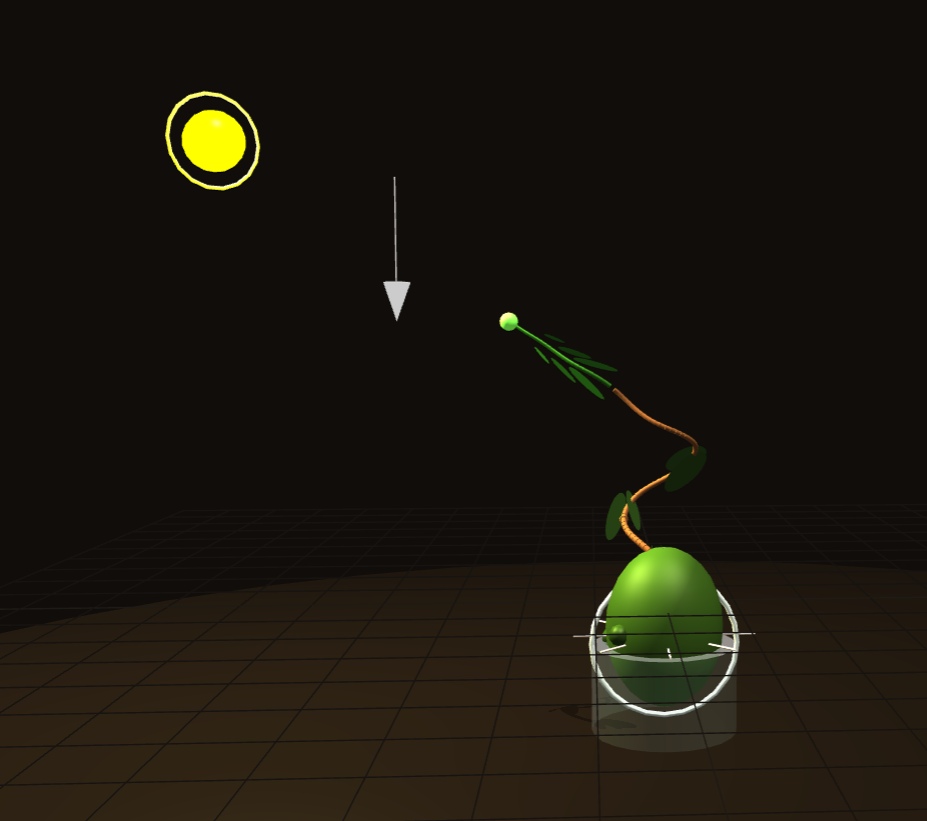
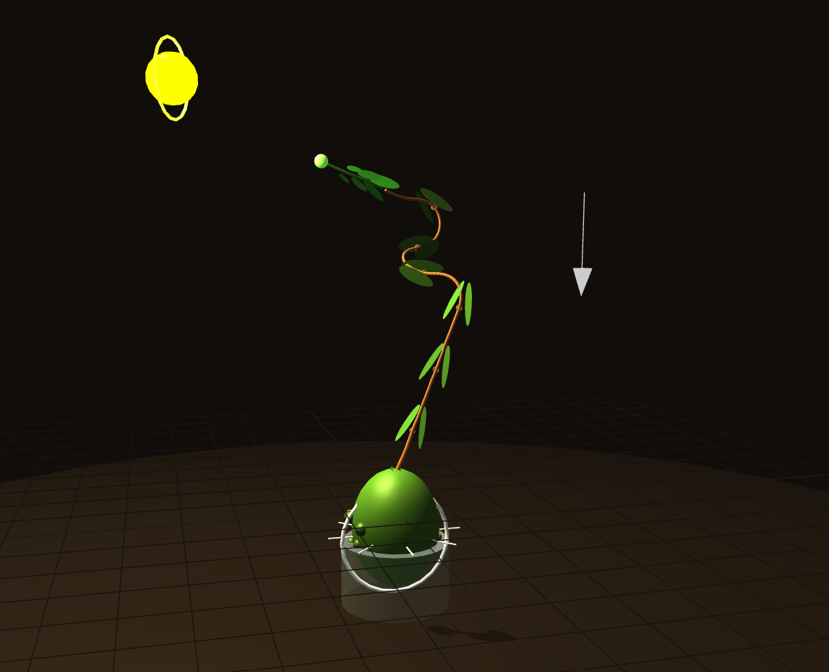
Add files via upload

diff --git a/index.html b/index.html
@@ -159,7 +159,7 @@ input[type=range]::-moz-range-thumb{width:18px;height:18px;border-radius:50%;bac
 
   <!-- ── Header ── -->
   <div id="header">
-    <div id="title"><span class="avo">🥑</span> Torture the Avocado</div>
+    <div id="title"><span class="avo">🥑</span> Torture the Avocado <span style="font-size:10px;font-weight:400;color:var(--text3);letter-spacing:.01em">· A plant tropisms simulator</span></div>
     <div id="statusbar">loading…</div>
     <button id="btn-examples" onclick="toggleExamples()" title="Examples">✦</button>
     <button id="btn-help" onclick="toggleHelp()">?</button>
@@ -171,7 +171,7 @@ input[type=range]::-moz-range-thumb{width:18px;height:18px;border-radius:50%;bac
       <canvas id="c"></canvas>
 
       <div id="canvas-controls">
-        <button class="cbtn" id="btn-pause" onclick="togglePause()">⏸ Pause</button>
+        <button class="cbtn pause-on" id="btn-pause" onclick="togglePause()">▶ Resume</button>
         <button class="cbtn" onclick="resetPlant()">↺ Reset</button>
       </div>
 
@@ -232,26 +232,26 @@ input[type=range]::-moz-range-thumb{width:18px;height:18px;border-radius:50%;bac
 
         <div class="help-card">
           <h3>🌱 How growth works</h3>
-          <p>The stem is a 3D curve. Growth is <b>diffuse axial elongation</b> within the <b style="color:#4caf3f">green growth zone</b> — cells all along the zone elongate simultaneously, not just at the tip. When one side of the cylindrical stem elongates faster than the other (<b>differential growth</b>), the local curvature changes and the stem bends. The <b style="color:#8B5e3c">brown mature zone</b> has finished elongating; its shape is permanently fixed.</p>
+          <p>The stem is a 3D curve. Growth occurs along the <b style="color:#4caf3f">green growth zone</b> — when one side elongates faster than the other, the stem bends. The <b style="color:#8B5e3c">brown mature zone</b> is permanently fixed.</p>
           <div class="tip">Slow the growth rate right down to watch curvature build step by step.</div>
         </div>
 
         <div class="help-card">
           <h3>🪴 Torturing the plant</h3>
           <p>The classic way to torture a houseplant is to <b>rotate the pot</b> — the stem was growing toward the window, and now gravity and light pull it a different way. Use the Pot tab to tilt and spin. You can also <b>move the light source</b> to the other side and watch the plant chase it. What shape can you grow?</p>
-          <div class="tip">Rotate the pot 90°, then add a light on the opposite side and watch the plant tear itself in two directions.</div>
+          <div class="tip">Rotate the pot 90°, then add a light on the opposite side — gravity and light will pull the stem in competing directions.</div>
         </div>
 
         <div class="help-card">
           <h3>⬆ Gravitropism</h3>
-          <p>Plants sense gravity and grow against it (shoots) or toward it (roots). Negative sensitivity = shoot-like, grows upward. Positive = root-like, grows downward. <b>Gravity always points downward</b>, even when you rotate the pot.</p>
+          <p>Plants sense gravity and grow against it (shoots) or toward it (roots). Negative sensitivity = shoot-like, grows upward. Positive = root-like, grows downward.</p>
           <div class="tip">Rotate the pot 90° and watch the plant slowly correct itself.</div>
         </div>
 
         <div class="help-card">
           <h3>☀ Phototropism</h3>
           <p>Add a point light source and the plant bends toward it. Sensitivity follows Stevens' power law — response grows non-linearly with signal strength. Drag the ☀ sphere to reposition it; use the height slider to move it up and down.</p>
-          <div class="tip">Try placing the light below the pot to make it grow downward.</div>
+          <div class="tip">Try slowly rotating the light around the plant and watch the stem follow.</div>
         </div>
 
         <div class="help-card">
@@ -407,6 +407,11 @@ input[type=range]::-moz-range-thumb{width:18px;height:18px;border-radius:50%;bac
 // ── Intro + examples ──────────────────────────────────────────────────
 function closeIntro(){
   document.getElementById('intro-modal').style.display='none';
+  // Start growing now that the user has chosen to begin
+  paused=false;
+  let b=document.getElementById('btn-pause');
+  b.classList.remove('pause-on');
+  b.textContent='⏸ Pause';
 }
 
 function toggleExamples(){
@@ -521,7 +526,7 @@ setTimeout(fadeOnboard,5000);
 // ── Simulation parameters ─────────────────────────────────────────────
 let G=-1.0, L=3.0, GAMMA=3.0, NUM_gz=15, GROW_RATE=1.0;
 let apicalSensing=false, circOn=false, CIRC_AMP=0.5, CIRC_PERIOD=4.0;
-let paused=false;
+let paused=true;
 const R_org=1.25, ds=0.25*R_org, b_photo=0.6, DT=0.14;
 let simTime=0, baseRotX=0, baseRotZ=0;
 
@@ -773,8 +778,9 @@ function makeLeafMesh(lp,n1,n2,T,side,size,dark){
 // ── Stem rendering ────────────────────────────────────────────────────
 let gzMeshes=[];
 let mzGroup=new THREE.Group(); plantGroup.add(mzGroup);
-let mzLeafCount=0;
-let mzStemUpTo=0;   // index up to which MZ stem segments have been added to mzGroup
+let totalGrown=0;        // total segments ever added (never decremented)
+let mzStemAddedUpTo=0;   // totalGrown value up to which MZ stem cylinders are drawn
+let mzLeafAddedUpTo=-1;  // totalGrown value up to which MZ leaves are drawn (-1 = none)
 const LEAF_STEP=Math.max(3,Math.round(5/ds));
 
 function rebuildGZ(){
@@ -819,25 +825,26 @@ function rebuildGZ(){
 }
 
 function addMZStemSegments(){
-  // Add MZ stem cylinder segments to mzGroup as they become permanently fixed.
-  // We add every segment from mzStemUpTo up to gz_start-1, snapshotting position now.
   if(!plant||plant.NUM<2)return;
   let N=plant.NUM, gz_start=Math.max(1,N-NUM_gz);
-  for(let i=mzStemUpTo;i<gz_start-1;i++){
-    let p0=plant.r[i],p1=plant.r[i+1];
+  let pruned=totalGrown-N; // segments shifted off the front
+  // Add stem cylinders for segments that just entered MZ
+  for(let abs=mzStemAddedUpTo; abs<pruned+gz_start-1; abs++){
+    let ai=abs-pruned; // index into current arrays
+    if(ai<0||ai+1>=N) continue;
+    let p0=plant.r[ai],p1=plant.r[ai+1];
     let dx=p1[0]-p0[0],dy=p1[1]-p0[1],dz=p1[2]-p0[2];
     let len=Math.sqrt(dx*dx+dy*dy+dz*dz);
-    if(len<1e-7){mzStemUpTo=i+1;continue;}
-    let r0=R_org*0.22*(0.35+0.65*(1-i/N));
-    let col=new THREE.Color().setHSL(0.07,0.52,0.27);
+    if(len<1e-7){mzStemAddedUpTo=abs+1;continue;}
+    let r0=R_org*0.22*(0.35+0.65*(1-ai/N));
     let mesh=new THREE.Mesh(new THREE.CylinderGeometry(r0*0.9,r0,len,7),
-      new THREE.MeshPhongMaterial({color:col,shininess:4}));
+      new THREE.MeshPhongMaterial({color:new THREE.Color().setHSL(0.07,0.52,0.27),shininess:4}));
     mesh.castShadow=true;
     let mid=[(p0[0]+p1[0])/2,(p0[1]+p1[1])/2,(p0[2]+p1[2])/2];
     mesh.position.set(mid[0],mid[1],mid[2]);
     mesh.quaternion.setFromUnitVectors(new THREE.Vector3(0,1,0),new THREE.Vector3(dx/len,dy/len,dz/len));
     mzGroup.add(mesh);
-    mzStemUpTo=i+1;
+    mzStemAddedUpTo=abs+1;
   }
 }
 
@@ -845,20 +852,26 @@ function updateMZLeaves(){
   if(!plant||plant.NUM<2)return;
   addMZStemSegments();
   let N=plant.NUM, gz_start=Math.max(1,N-NUM_gz);
-  for(let i=4+mzLeafCount*LEAF_STEP;i<gz_start-LEAF_STEP;i+=LEAF_STEP){
-    let lp=plant.r[i],Di=plant.D[i];
+  let pruned=totalGrown-N;
+  // First leaf at absolute index pruned+4, then every LEAF_STEP
+  let firstAbs=pruned+4;
+  // Align to LEAF_STEP grid
+  if(mzLeafAddedUpTo<0) mzLeafAddedUpTo=firstAbs-LEAF_STEP;
+  for(let abs=mzLeafAddedUpTo+LEAF_STEP; abs<pruned+gz_start-LEAF_STEP; abs+=LEAF_STEP){
+    let ai=abs-pruned;
+    if(ai<0||ai>=N) continue;
+    let lp=plant.r[ai],Di=plant.D[ai];
     let n1=[Di[0],Di[3],Di[6]],n2=[Di[1],Di[4],Di[7]],T=[Di[2],Di[5],Di[8]];
     let ng=new THREE.Mesh(new THREE.TorusGeometry(R_org*0.17,R_org*0.055,4,8),
       new THREE.MeshPhongMaterial({color:0x6a4820}));
-    ng.position.set(lp[0],lp[1],lp[2]); ng.rotation.z=i*0.7; mzGroup.add(ng);
+    ng.position.set(lp[0],lp[1],lp[2]); ng.rotation.z=ai*0.7; mzGroup.add(ng);
     for(let s=-1;s<=1;s+=2){ mzGroup.add(makeLeafMesh(lp,n1,n2,T,s,R_org*1.45,true)); }
-    mzLeafCount++;
+    mzLeafAddedUpTo=abs;
   }
 }
 function clearMZLeaves(){
   while(mzGroup.children.length){let m=mzGroup.children[0];mzGroup.remove(m);if(m.geometry)m.geometry.dispose();}
-  mzLeafCount=0;
-  mzStemUpTo=0;
+  mzStemAddedUpTo=0; mzLeafAddedUpTo=-1; totalGrown=0;
 }
 
 // ── Light source ──────────────────────────────────────────────────────
@@ -1109,7 +1122,9 @@ function toggleDrawer(){
 function resetPlant(){
   plant=initPlant(); simTime=0;
   baseRotX=0; baseRotZ=0; potGroup.rotation.set(0,0,0);
-  clearMZLeaves(); rebuildGZ();
+  clearMZLeaves();
+  totalGrown=plant.NUM;  // account for initial segments so base stem is drawn
+  rebuildGZ();
   updateBalance();
 
 }
@@ -1132,12 +1147,12 @@ function animate(){
   if(!paused&&plant){
     growAccum+=GROW_RATE/60;
     while(growAccum>=1){
-      growAccum-=1; growPlant(plant); updateMZLeaves();
+      growAccum-=1; growPlant(plant); totalGrown++; updateMZLeaves();
       if(plant.NUM>MAX_SEGS){
         plant.k1.shift();plant.k2.shift();plant.D.shift();plant.r.shift();
         plant.Delta.shift();plant.DeltaGrav.shift();plant.DeltaPhoto.shift();
         plant.DeltaAuto.shift();plant.DeltaCirc.shift(); plant.NUM--;
-        if(mzGroup.children.length>80){let m=mzGroup.children[0];mzGroup.remove(m);if(m.geometry)m.geometry.dispose();}
+
       }
     }
     updatePlant(plant);